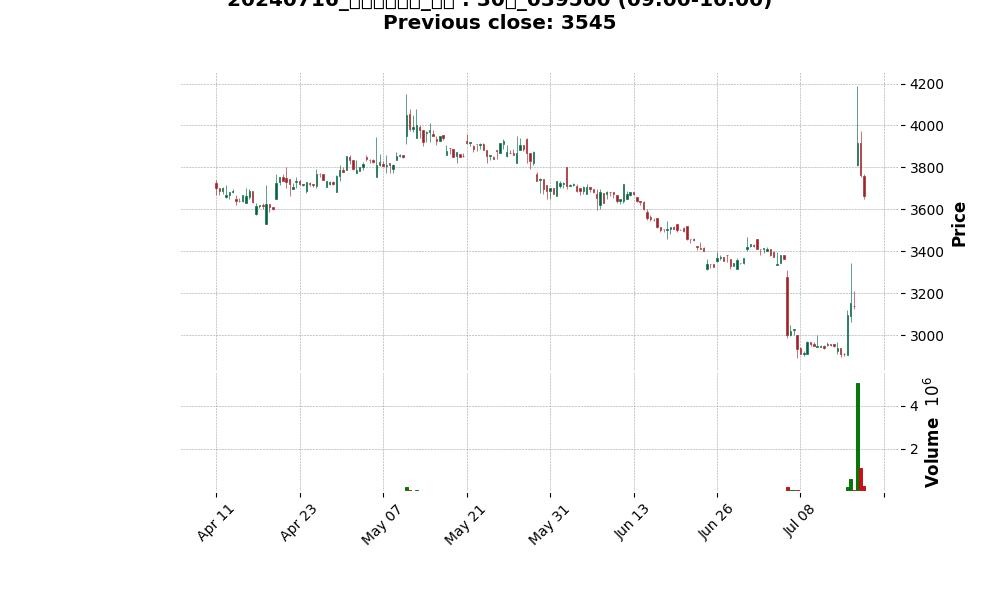
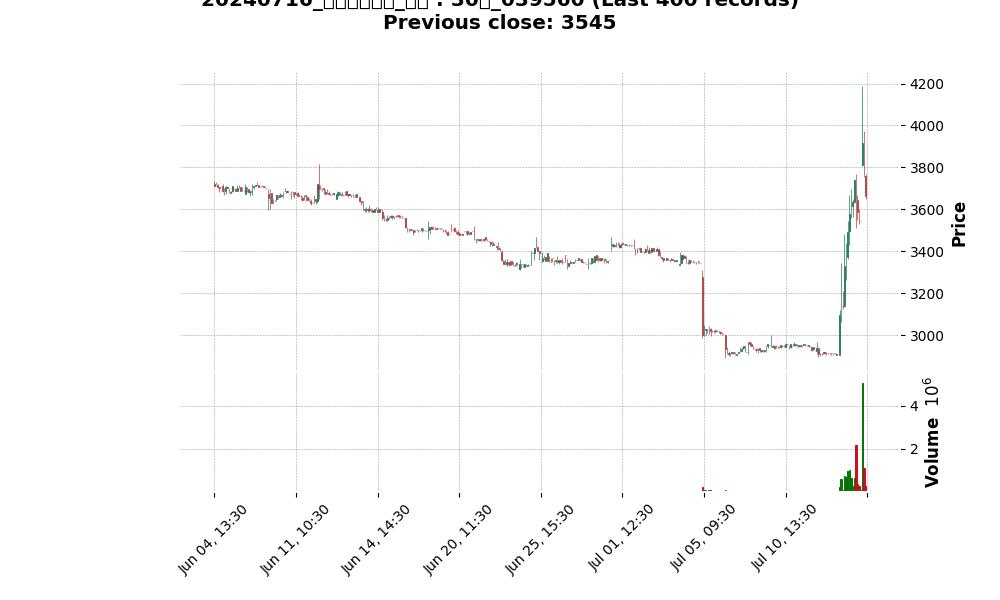
시간조건 제외

diff --git a/학습모듈/지지저항분석하기.py b/학습모듈/지지저항분석하기.py
@@ -1,0 +1,117 @@
+import sqlite3
+import pandas as pd
+import numpy as np
+import hdbscan
+import matplotlib.pyplot as plt
+from sklearn.preprocessing import MinMaxScaler
+
+# SQLite 데이터베이스 파일 연결
+db_path = '20240716_시가갭검색식_돌파.db'
+conn = sqlite3.connect(db_path)
+
+# 테이블 목록 가져오기
+query = "SELECT name FROM sqlite_master WHERE type='table' AND name LIKE '30분%';"
+tables = pd.read_sql_query(query, conn)['name'].tolist()
+
+if not tables:
+    print("No tables found that start with '30분'")
+else:
+    print(f"Found tables: {tables}")
+
+# 현재 테이블 인덱스 추적
+current_table_index = 0
+
+# 키보드 이벤트 처리 함수
+def on_key(event):
+    global current_table_index
+    if event.key == 'right':
+        current_table_index = (current_table_index + 1) % len(tables)
+    elif event.key == 'left':
+        current_table_index = (current_table_index - 1) % len(tables)
+    update_plot()
+
+# 차트 업데이트 함수
+def update_plot():
+    global current_table_index
+    table = tables[current_table_index]
+    print(f"Processing table: {table}")
+    
+    # 데이터 로드
+    df = pd.read_sql_query(f'SELECT date, close FROM [{table}]', conn)
+    if df.empty:
+        print(f"No data found in table {table}")
+        return
+
+    df['date'] = pd.to_datetime(df['date'])
+    df = df.set_index('date')
+    
+    if df['close'].isnull().all():
+        print(f"All 'close' values are NaN in table {table}")
+        return
+
+    # 데이터 정규화
+    scaler = MinMaxScaler()
+    data_normalized = scaler.fit_transform(df['close'].values.reshape(-1, 1))
+    
+    # 지지선과 저항선을 찾기 위한 클러스터링
+    clusterer = hdbscan.HDBSCAN(min_cluster_size=5)
+    cluster_labels = clusterer.fit_predict(data_normalized)
+    
+    if len(set(cluster_labels)) <= 1:
+        print(f"No clusters found in table {table}")
+        return
+
+    # 각 클러스터의 중앙값을 지지선/저항선으로 사용
+    unique_labels = set(cluster_labels)
+    support_resistance_lines_normalized = []
+    for label in unique_labels:
+        if label != -1:
+            support_resistance_lines_normalized.append(np.median(data_normalized[cluster_labels == label]))
+    
+    if not support_resistance_lines_normalized:
+        print(f"No support/resistance lines found in table {table}")
+        return
+
+    # 정규화된 지지선/저항선을 원래 스케일로 변환
+    support_resistance_lines = scaler.inverse_transform(np.array(support_resistance_lines_normalized).reshape(-1, 1)).flatten()
+    
+    # 신뢰도 계산 (클러스터 크기와 반비례)
+    cluster_sizes = [np.sum(cluster_labels == label) for label in unique_labels if label != -1]
+    confidence = [size / np.max(cluster_sizes) for size in cluster_sizes]
+    
+    # 신뢰도 임계값 설정
+    confidence_threshold = 0.8
+    high_confidence_lines = [(line, conf) for line, conf in zip(support_resistance_lines, confidence) if conf >= confidence_threshold]
+    
+    if not high_confidence_lines:
+        print(f"No high confidence lines found in table {table}")
+        return
+
+    # 결과 시각화
+    plt.clf()
+    plt.plot(df.index, df['close'], label='Close Price')
+    for line, conf in high_confidence_lines:
+        plt.axhline(line, linestyle='--', linewidth=2, color=(1 - conf, 0, conf), alpha=0.7)
+        plt.text(df.index[-1], line, f'{line:.2f}', verticalalignment='bottom', horizontalalignment='right', color='black', fontsize=10)
+    
+    # 범례 추가
+    import matplotlib.patches as mpatches
+    red_patch = mpatches.Patch(color='red', label='Low Confidence')
+    blue_patch = mpatches.Patch(color='blue', label='High Confidence')
+    plt.legend(handles=[red_patch, blue_patch])
+    
+    plt.title(f'{table} High Confidence Support and Resistance Lines')
+    plt.xlabel('Date')
+    plt.ylabel('Price')
+    plt.draw()
+
+# 이벤트 핸들러 연결
+fig, ax = plt.subplots()
+fig.canvas.mpl_connect('key_press_event', on_key)
+
+# 첫 번째 플롯 업데이트
+update_plot()
+plt.show()
+
+# 데이터베이스 연결 닫기
+conn.close()

diff --git a/sql시각화.py b/sql시각화.py
@@ -5,14 +5,13 @@ import os
 import logging
 import re
 import matplotlib.pyplot as plt
-from matplotlib import font_manager, rc
 
 class DBVisualizer:
-    def __init__(self, db_name, time_range=('09:00', '10:00')):
+    def __init__(self, db_name, num_records=400):
         self.db_name = db_name
         self.db_path = f'{db_name}.db'
         self.charts_folder = db_name
-        self.time_range = time_range
+        self.num_records = num_records
         logging.basicConfig(level=logging.INFO, format='%(asctime)s - %(levelname)s - %(message)s')
         self.logger = logging.getLogger(__name__)
 
@@ -34,17 +33,17 @@ class DBVisualizer:
         for selected_table in tables:
             try:
                 conn = sqlite3.connect(self.db_path)
-                query = f'SELECT * FROM "{selected_table}"'
+                query = f'SELECT * FROM "{selected_table}" ORDER BY date DESC LIMIT {self.num_records}'
                 df = pd.read_sql_query(query, conn, parse_dates=['date'], index_col='date')
                 conn.close()
-
-                df_filtered = df.between_time(*self.time_range)
+                
+                df = df.sort_index()  # Sorting back to ascending order for plotting
 
                 prev_day = df.index.max() - pd.Timedelta(days=1)
                 prev_day_df = df.loc[df.index.date == prev_day.date(), 'close']
                 prev_day_close = prev_day_df.iloc[-1] if not prev_day_df.empty else "N/A"
 
-                title = f'{self.db_name} : {selected_table} ({self.time_range[0]}-{self.time_range[1]})'
+                title = f'{self.db_name} : {selected_table} (Last {self.num_records} records)'
                 if prev_day_close != "N/A":
                     title += f"\nPrevious close: {prev_day_close}"
 
@@ -52,7 +51,7 @@ class DBVisualizer:
                 os.makedirs(os.path.dirname(save_path), exist_ok=True)
                 savefig_options = {'fname': save_path, 'dpi': 100}
 
-                fig, ax = mpf.plot(df_filtered, type='candle', style='charles', title=title, volume=True, returnfig=True)
+                fig, ax = mpf.plot(df, type='candle', style='charles', title=title, volume=True, returnfig=True)
                 fig.set_size_inches(10, 6)
                 fig.savefig(**savefig_options)
                 plt.close(fig)
